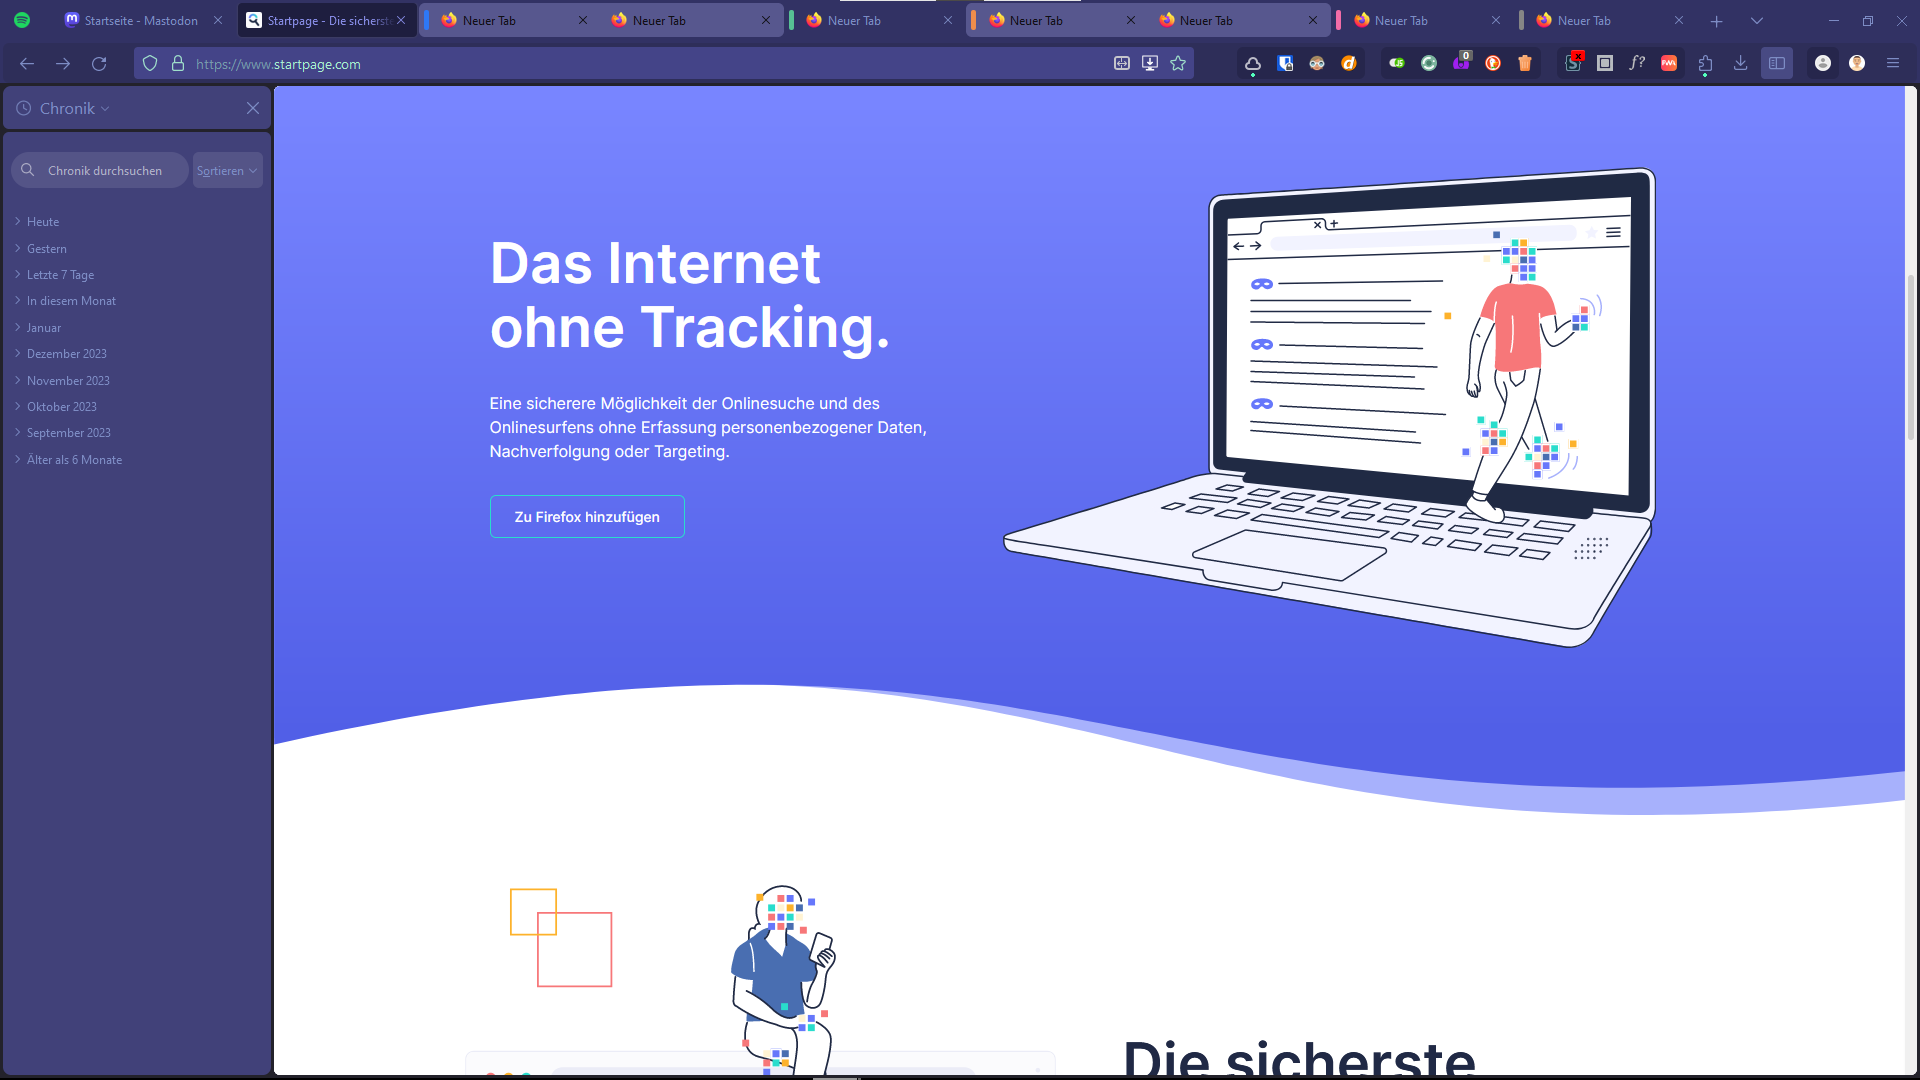
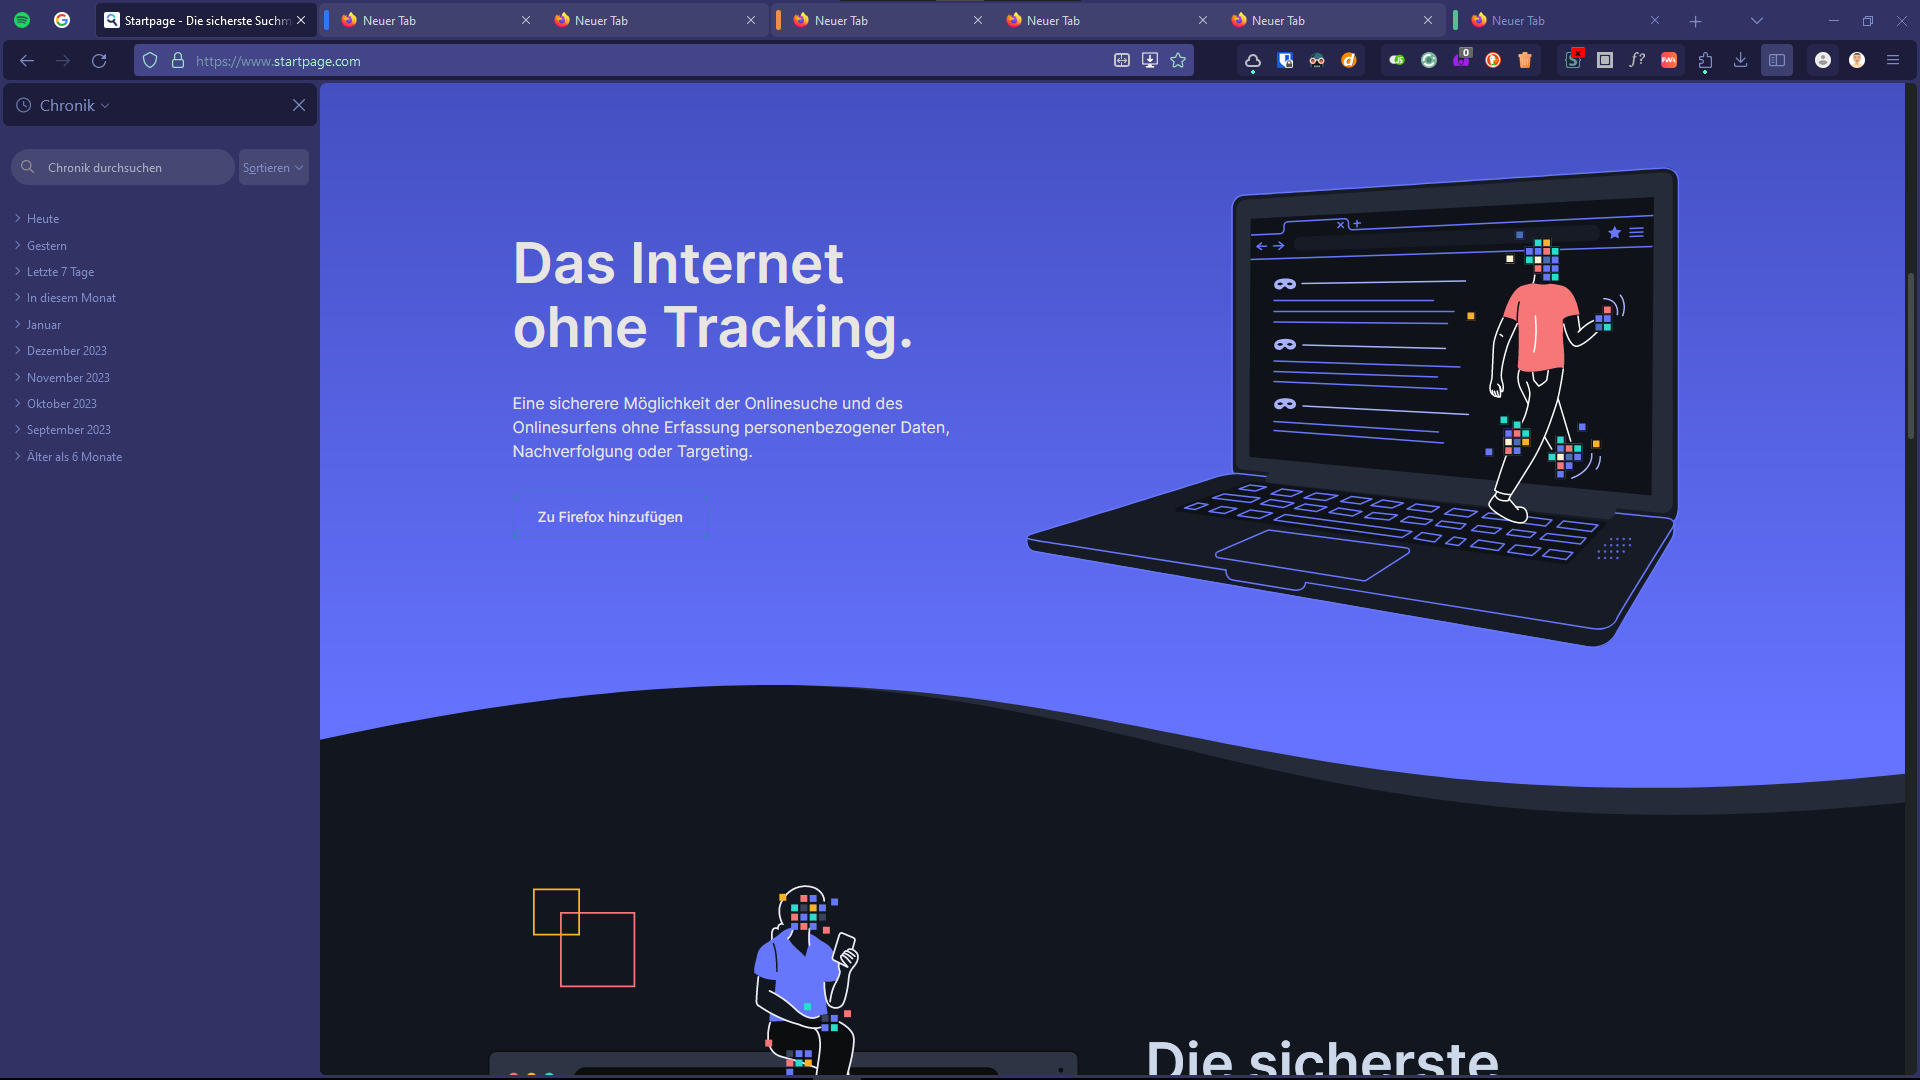
wip

diff --git a/userChrome/src/base.scss b/userChrome/src/base.scss
@@ -40,7 +40,7 @@
 		--toolbar-btn-bg: light-dark(#e7edf1, #1a1d2b);
 		--tab-island-bg: light-dark(#e7edf1, #1a1d2b);
 		--tab-island-blue: #2e78f6;
-		--tab-island-turqouise: #7bc6d7;
+		--tab-island-turquoise: #7bc6d7;
 		--tab-island-green: #57bf94;
 		--tab-island-lightgreen: #99d17b;
 		--tab-island-yellow: #eec574;
@@ -87,7 +87,7 @@
 			color-mix(in hsl, transparent 92.5%, white)
 		);
 		--tab-island-blue: #2e78f6;
-		--tab-island-turqouise: #7bc6d7;
+		--tab-island-turquoise: #7bc6d7;
 		--tab-island-green: #57bf94;
 		--tab-island-lightgreen: #99d17b;
 		--tab-island-yellow: #eec574;
@@ -98,6 +98,18 @@
 		--tab-island-tomato: #d62246;
 		--tab-island-toolbar: #858585;
 	}
+}
+
+menu,
+menupopup,
+.menupopup-arrowscrollbox,
+.menupopup {
+	border: 1px solid transparent !important;
+	border: none !important;
+}
+
+hbox.newTabBrowserPanel {
+	padding-top: 0 !important;
 }
 
 #browser {
@@ -118,14 +130,14 @@
 }
 
 #sidebar-box {
-	border-radius: var(--radius);
-	overflow: hidden;
+	border-radius: var(--radius) !important;
+	overflow: hidden !important;
 	// margin-right: var(--gap);
-	max-width: 50dvw;
-	min-width: 50px;
+	max-width: 50dvw !important;
+	min-width: 50px !important;
 	padding-top: 0px !important;
-	z-index: 0;
-	text-shadow: none;
+	z-index: 0 !important;
+	text-shadow: none !important;
 	background: transparent !important;
 	margin: 0 !important;
 

diff --git a/userChrome/src/tab-islands.scss b/userChrome/src/tab-islands.scss
@@ -7,7 +7,7 @@
 
 	/* __________________COLORS__________________ */
 
-	$colors: "blue", "turqouise", "green", "lightgreen", "yellow", "orange", "red",
+	$colors: "blue", "turquoise", "green", "lightgreen", "yellow", "orange", "red",
 		"pink", "purple", "tomato", "toolbar";
 
 	[usercontextid] {
@@ -24,7 +24,34 @@
 		color: light-dark(black, white) !important;
 	}
 
+	#userContext-icons {
+		padding: 0.25rem 0.5rem !important;
+		background: var(--identity-icon-color);
+		border-radius: 9999px !important;
+		gap: 0.25rem !important;
+
+		label {
+			order: 1 !important;
+			margin-top: -2px !important;
+			// color: #fff !important;
+			color: color-mix(in srgb, black 50%, transparent) !important;
+		}
+
+		image {
+			// fill: #fff !important;
+			fill: color-mix(in srgb, black 50%, transparent) !important;
+			margin: 0 !important;
+			width: 14px !important;
+			height: 14px !important;
+		}
+	}
+
 	@each $color in $colors {
+		#page-action-buttons .identity-color-#{$color} {
+			--identity-icon-color: var(--tab-island-#{$color}) !important;
+			--identity-tab-color: var(--tab-island-#{$color}) !important;
+		}
+
 		.tabbrowser-tab.identity-color-#{$color}:has(+ .identity-color-#{$color}) {
 			border-top-right-radius: 0 !important;
 			border-bottom-right-radius: 0 !important;

diff --git a/userChrome/src/userContent.scss b/userChrome/src/userContent.scss
@@ -1,0 +1,41 @@
+@-moz-document url("about:home"), url("about:newtab") {
+	:root,
+	:root[lwt-newtab-brighttext] {
+		--newtab-background-color-secondary: color-mix(
+			in srgb,
+			var(--newtab-background-color) 75%,
+			black
+		) !important;
+	}
+
+	.outer-wrapper.fixed-search {
+		.non-collapsible-section {
+			position: sticky !important;
+			z-index: 9 !important;
+			top: 0.25rem !important;
+		}
+
+		.search-wrapper {
+			position: static !important;
+			width: 90% !important;
+			margin-left: 2.5% !important;
+			backdrop-filter: blur(15px) !important;
+			// border: none !important;
+			// box-shadow: 0 0 19px -3px rgba(0 0 0 / 0.5) !important;
+			// background: rgba(255 255 255 / 0.15) !important;
+			// padding: 0.5rem !important;
+			border: 1px solid rgba(255 255 255 / 0.15) !important;
+			box-shadow: none !important;
+			background: transparent !important;
+			padding: 0 !important;
+			border-radius: 6px !important;
+			display: flex !important;
+			align-items: center !important;
+			min-height: unset !important;
+		}
+
+		.search-inner-wrapper {
+			width: 100% !important;
+		}
+	}
+}

diff --git a/README.md b/README.md
@@ -6,8 +6,8 @@
 
 ## Build
 ### Commands
-#### Test
-`sass userChrome/src/withDefaultColorsAndTabIslands.scss:userChrome/dist/withDefaultColorsAndTabIslands/userChrome.css userChrome/src/withDefaultColorsWithoutTabIslands.scss:userChrome/dist/withDefaultColorsWithoutTabIslands/userChrome.css userChrome/src/withoutDefaultColorsAndTabIslands.scss:userChrome/dist/withoutDefaultColorsAndTabIslands/userChrome.css userChrome/src/withoutDefaultColorsWithTabIslands.scss:userChrome/dist/withoutDefaultColorsWithTabIslands/userChrome.css`
+#### Sass
+`sass userChrome/src/withDefaultColorsAndTabIslands.scss:userChrome/dist/withDefaultColorsAndTabIslands/userChrome.css userChrome/src/withDefaultColorsWithoutTabIslands.scss:userChrome/dist/withDefaultColorsWithoutTabIslands/userChrome.css userChrome/src/withoutDefaultColorsAndTabIslands.scss:userChrome/dist/withoutDefaultColorsAndTabIslands/userChrome.css userChrome/src/withoutDefaultColorsWithTabIslands.scss:userChrome/dist/withoutDefaultColorsWithTabIslands/userChrome.css userChrome/src/userContent.scss:userChrome/dist/userContent.css`
 
 #### about:config
 ##### activate multi account containers
